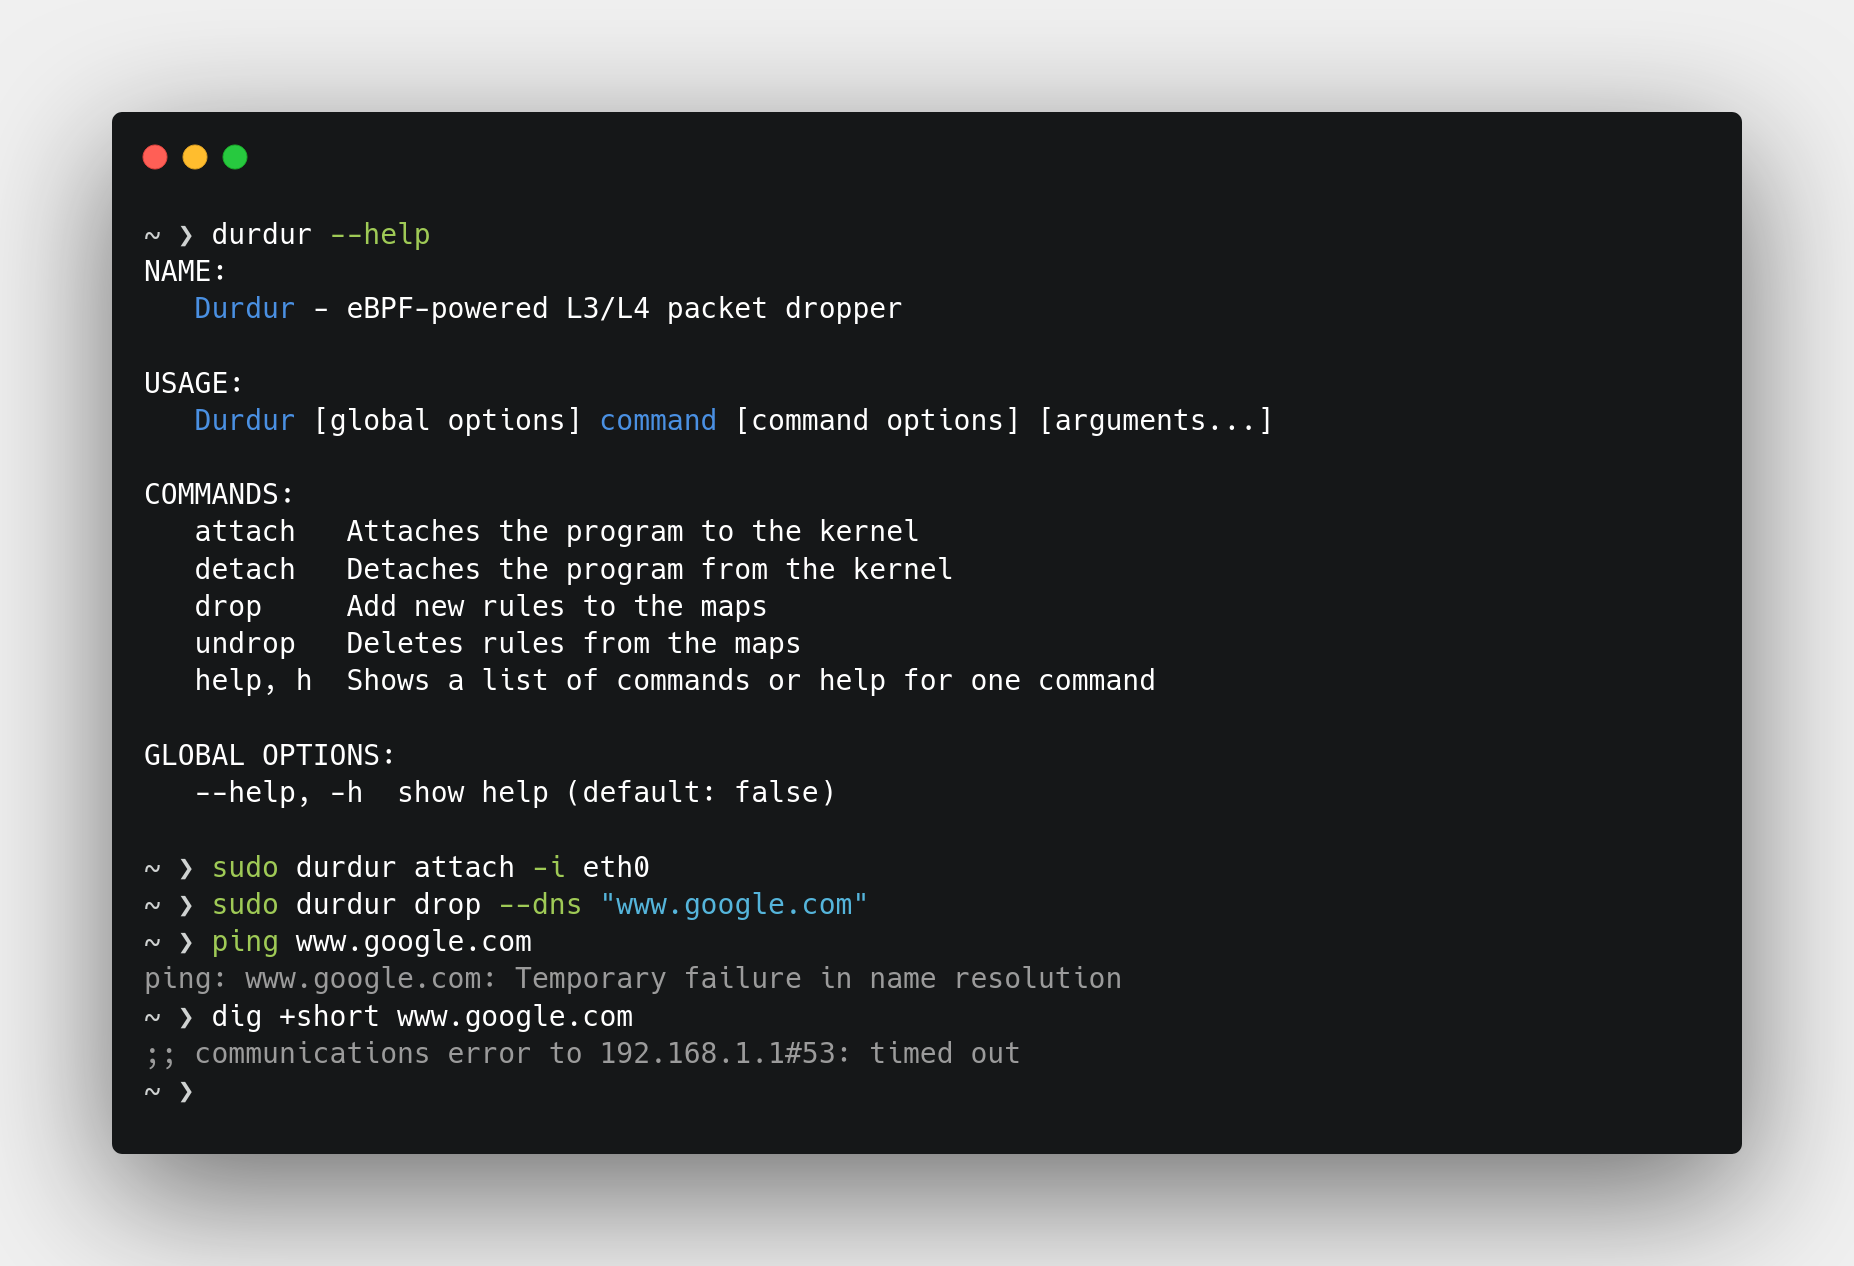
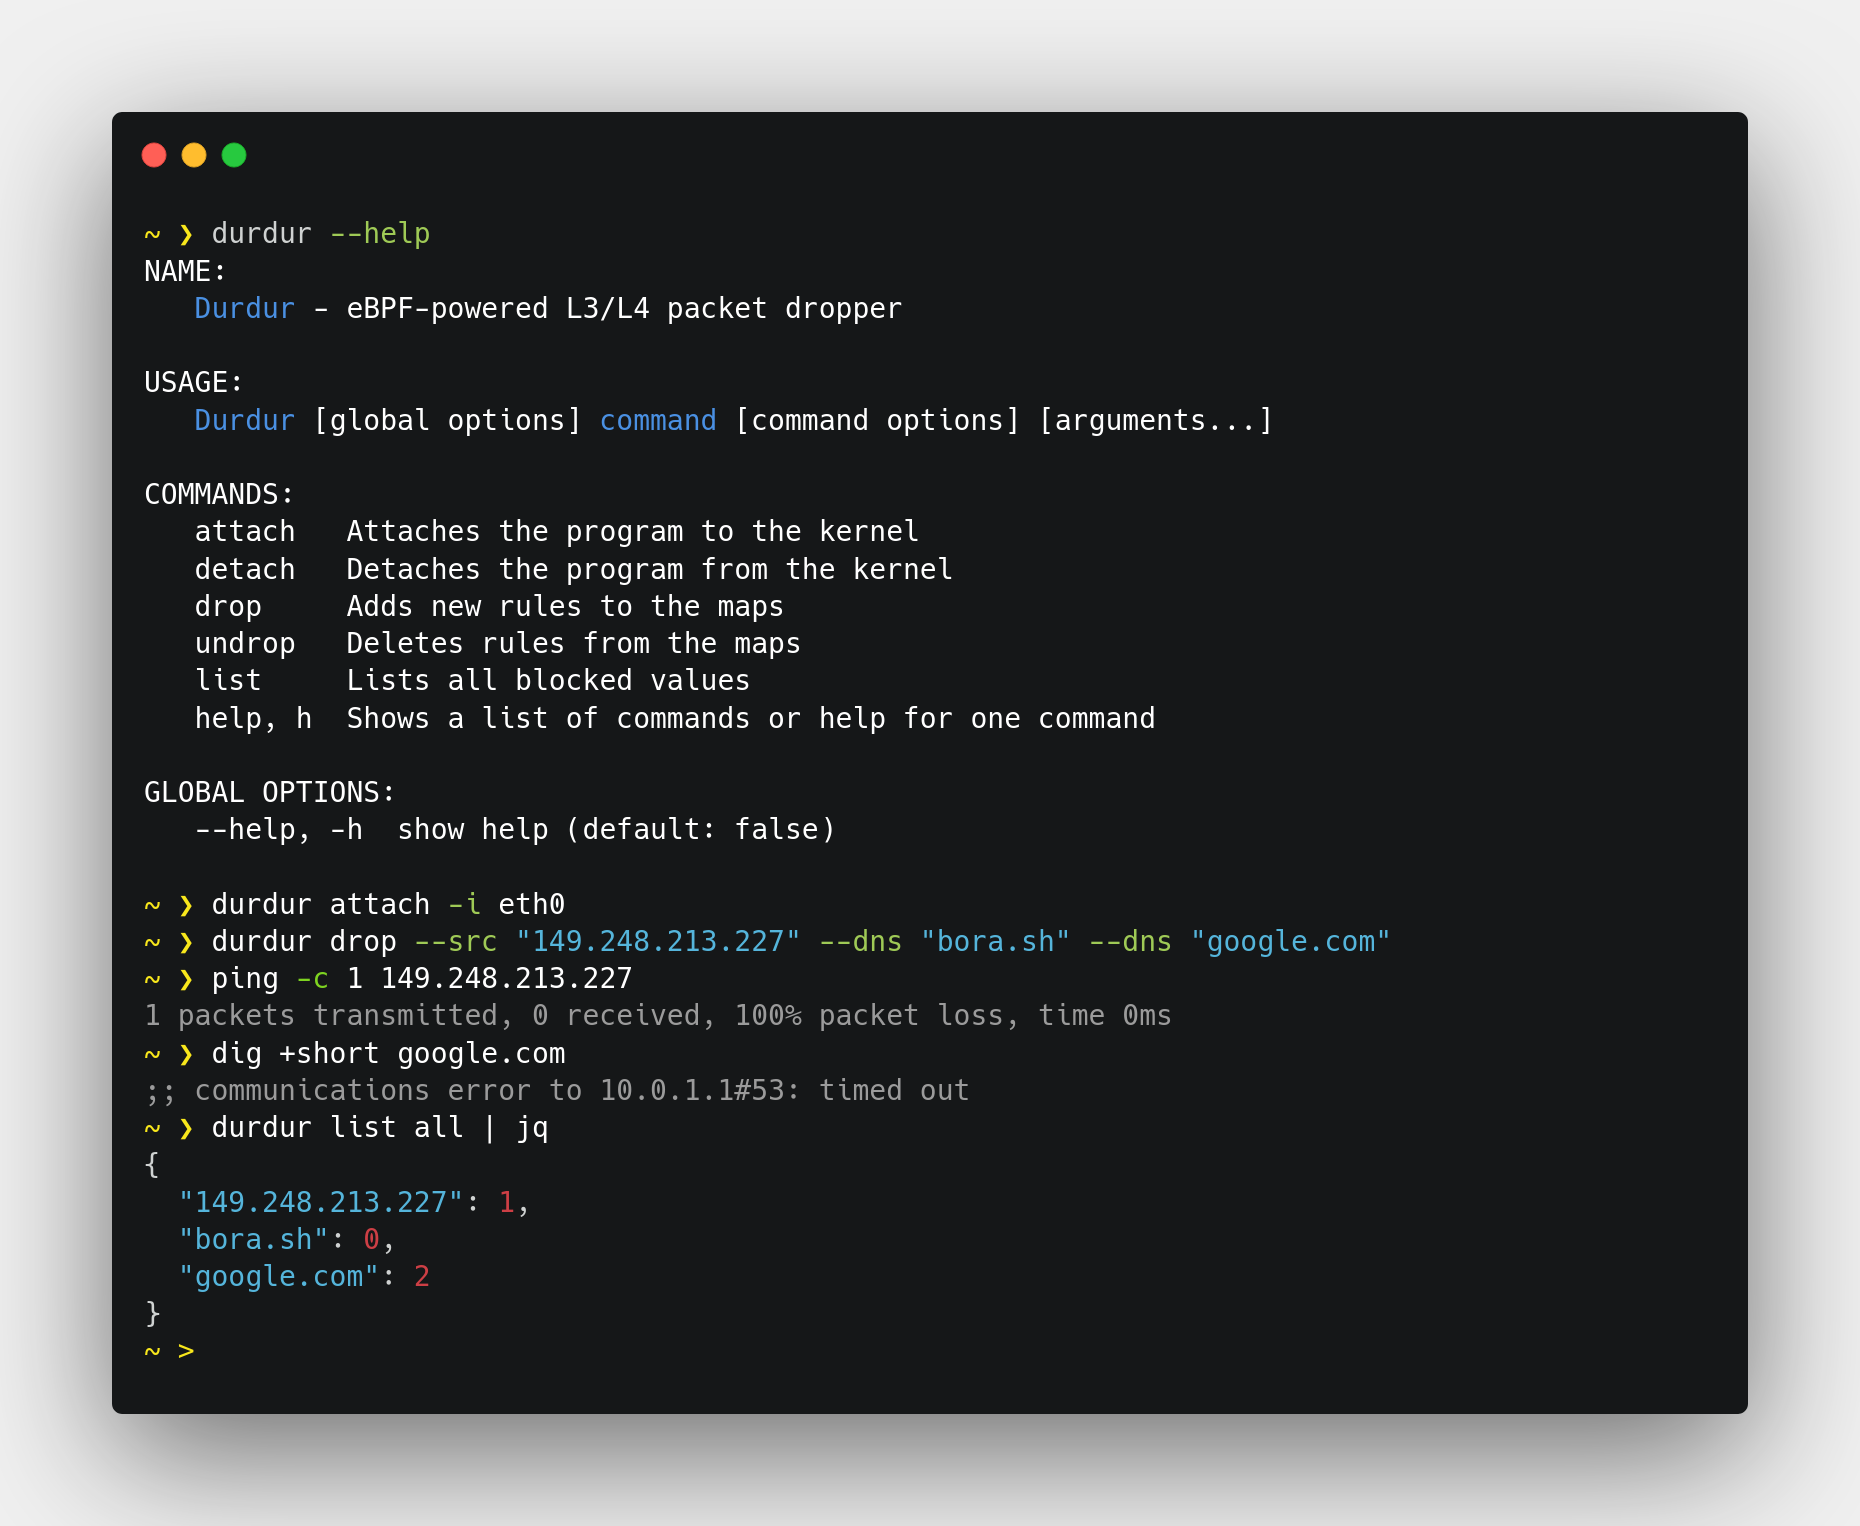
doc: update example image, fix: typos

diff --git a/cmd/durdur/list.go b/cmd/durdur/list.go
@@ -10,21 +10,21 @@ import (
 func ListCmd() *cli.Command {
 	return &cli.Command{
 		Name:  "list",
-		Usage: "List maps",
+		Usage: "List all blocked values",
 		Subcommands: []*cli.Command{
 			{
 				Name:   "src",
-				Usage:  "List all blocked source address values",
+				Usage:  "Lists all blocked source address values",
 				Action: listSrc,
 			},
 			{
 				Name:   "dns",
-				Usage:  "List all blocked domain values",
+				Usage:  "Lists all blocked domain values",
 				Action: listDNS,
 			},
 			{
 				Name:   "all",
-				Usage:  "List all blocked source addres and domain values",
+				Usage:  "Lists all blocked source addres and domain values",
 				Action: listAll,
 			},
 		},

diff --git a/cmd/durdur/drop.go b/cmd/durdur/drop.go
@@ -16,7 +16,7 @@ var (
 func DropCmd() *cli.Command {
 	return &cli.Command{
 		Name:   "drop",
-		Usage:  "Add new rules to the maps",
+		Usage:  "Adds new rules to the maps",
 		Action: drop,
 		Flags:  dropUndropFlags(),
 	}
